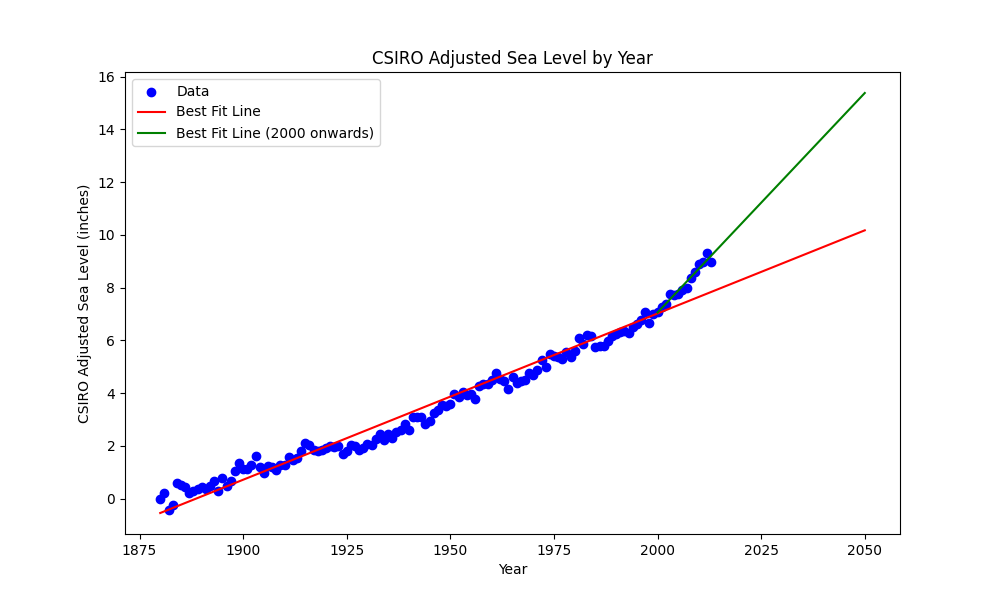
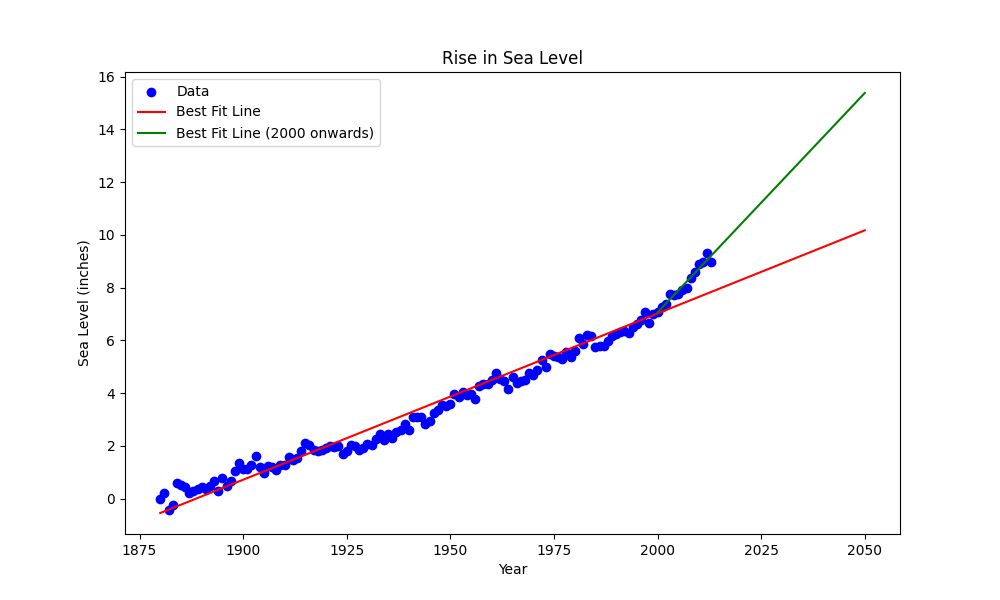
titles

Changed region(s): [[0.062, 0.3, 0.093, 0.69], [0.372, 0.06, 0.651, 0.12]]

diff --git a/sea_level_predictor.py b/sea_level_predictor.py
@@ -46,9 +46,9 @@ def draw_plot():
     )
 
     # Labels and title
-    plt.title("CSIRO Adjusted Sea Level by Year")
+    plt.title("Rise in Sea Level")
     plt.xlabel("Year")
-    plt.ylabel("CSIRO Adjusted Sea Level (inches)")
+    plt.ylabel("Sea Level (inches)")
     plt.legend()
 
     plt.savefig("sea_level_plot.png")
